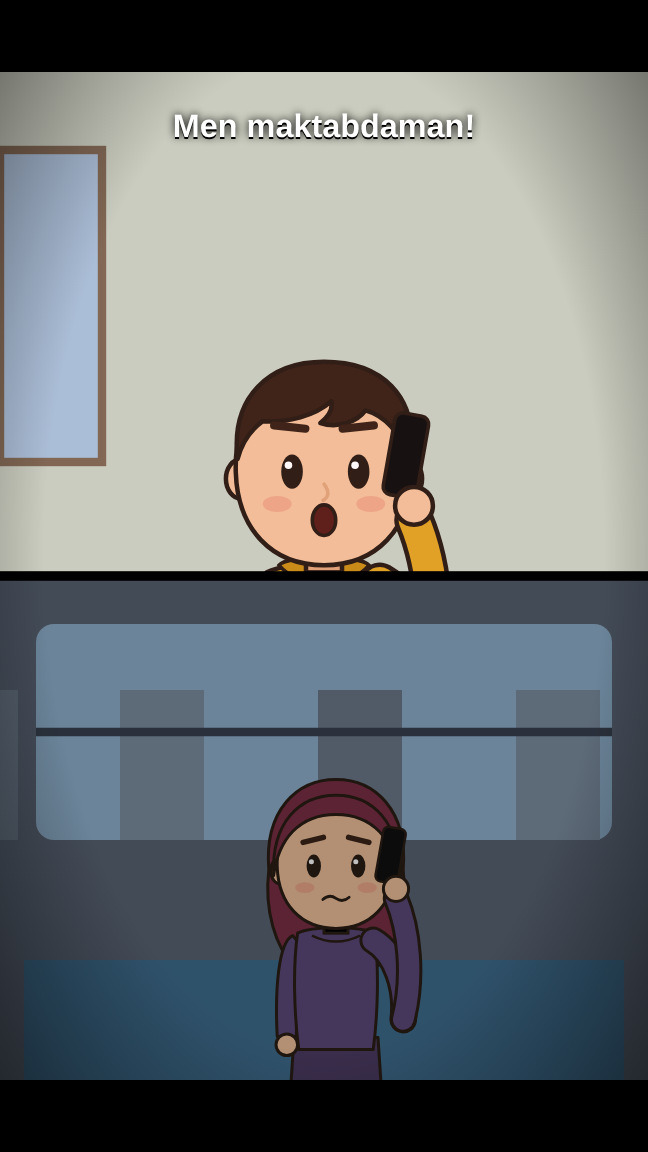
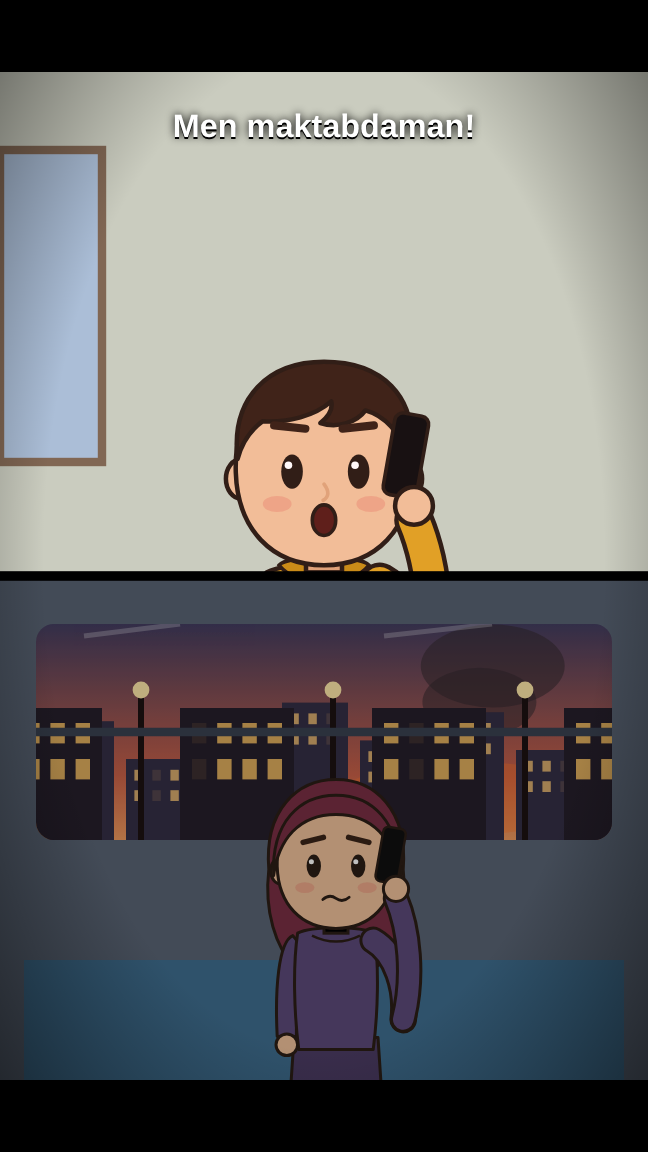
Zombie part 1: evening city with smoke and lights behind the bus window
Claude-Session: https://claude.ai/code/session_01TTDtXFX2VgNijaV9KjVb5K

Changed region(s): [[0.0309, 0.5312, 0.9568, 0.75]]

diff --git a/video/src/zombi/ZQ1.tsx b/video/src/zombi/ZQ1.tsx
@@ -263,8 +263,37 @@ const SSplit: S = ({t}) => {
       </g>
       <g>
         <rect y={960} width={W} height={960} fill="#5a6474" />
-        <rect x={60} y={1040} width={960} height={360} rx={30} fill="#8fb0cc" />
-        {[0, 1, 2, 3].map((i) => <rect key={i} x={((t * 500 + i * 330) % 1300) - 200} y={1150} width={140} height={250} fill={['#7d8ea0', '#6b7a8a'][i % 2]} />)}
+        <defs>
+          <clipPath id="buswin"><rect x={60} y={1040} width={960} height={360} rx={30} /></clipPath>
+          <linearGradient id="dusk" x1="0" y1="0" x2="0" y2="1"><stop offset="0%" stopColor="#3b3f63" /><stop offset="70%" stopColor="#c8644a" /><stop offset="100%" stopColor="#f0a060" /></linearGradient>
+        </defs>
+        <g clipPath="url(#buswin)">
+          <rect x={60} y={1040} width={960} height={360} fill="url(#dusk)" />
+          {/* smoke columns and fire glow far away */}
+          <ellipse cx={780} cy={1330} rx={220} ry={60} fill="#ff7a2a" opacity={0.5 + 0.15 * Math.sin(t * 5)} />
+          {[0, 1, 2].map((i) => <ellipse key={i} cx={760 + i * 30 + Math.sin(t + i) * 10} cy={1250 - i * 60 - ((t * 20) % 40)} rx={70 + i * 25} ry={45 + i * 12} fill="#2a2a30" opacity={0.55} />)}
+          {/* far skyline, slow */}
+          {Array.from({length: 12}).map((_, i) => {
+            const x = ((i * 130 - t * 40) % 1560 + 1560) % 1560 - 200;
+            const h = 120 + ((i * 47) % 110);
+            return <g key={i}><rect x={x} y={1400 - h} width={110} height={h} fill="#2c3048" />{Array.from({length: 6}).map((__, j) => <rect key={j} x={x + 14 + (j % 3) * 30} y={1400 - h + 18 + Math.floor(j / 3) * 34} width={14} height={18} fill="#ffd27a" opacity={(i + j) % 3 ? 0.8 : 0.15} />)}</g>;
+          })}
+          {/* near buildings and street lamps, fast */}
+          {Array.from({length: 5}).map((_, i) => {
+            const x = ((i * 320 - t * 520) % 1600 + 1600) % 1600 - 300;
+            return (
+              <g key={i}>
+                <rect x={x} y={1180} width={190} height={240} fill="#1c1f2c" />
+                {Array.from({length: 8}).map((__, j) => <rect key={j} x={x + 20 + (j % 4) * 42} y={1205 + Math.floor(j / 4) * 60} width={24} height={34} fill="#ffcf6a" opacity={(i * 3 + j) % 4 ? 0.85 : 0.1} />)}
+                <rect x={x + 250} y={1150} width={10} height={260} fill="#111" /><circle cx={x + 255} cy={1150} r={14} fill="#fff2b0" />
+              </g>
+            );
+          })}
+          {/* police light flashes on the glass */}
+          <rect x={60} y={1040} width={960} height={360} fill="#ff2030" opacity={0.18 * red(t)} />
+          <rect x={60} y={1040} width={960} height={360} fill="#2050ff" opacity={0.18 * blue(t)} />
+          <path d="M140 1060 L300 1040 M640 1060 L820 1040" stroke="#fff" strokeWidth={8} opacity={0.25} />
+        </g>
         <path d="M60 1220 H1020" stroke="#3a4250" strokeWidth={14} />
         <rect x={40} y={1600} width={1000} height={320} fill="#3f6e8f" />
         <PersonAt x={560} y={1960 + Math.sin(t * 6) * 4} s={1.0} {...CAST.ona} mood="worried" phone blink={blinkAt(t, 2)} />
